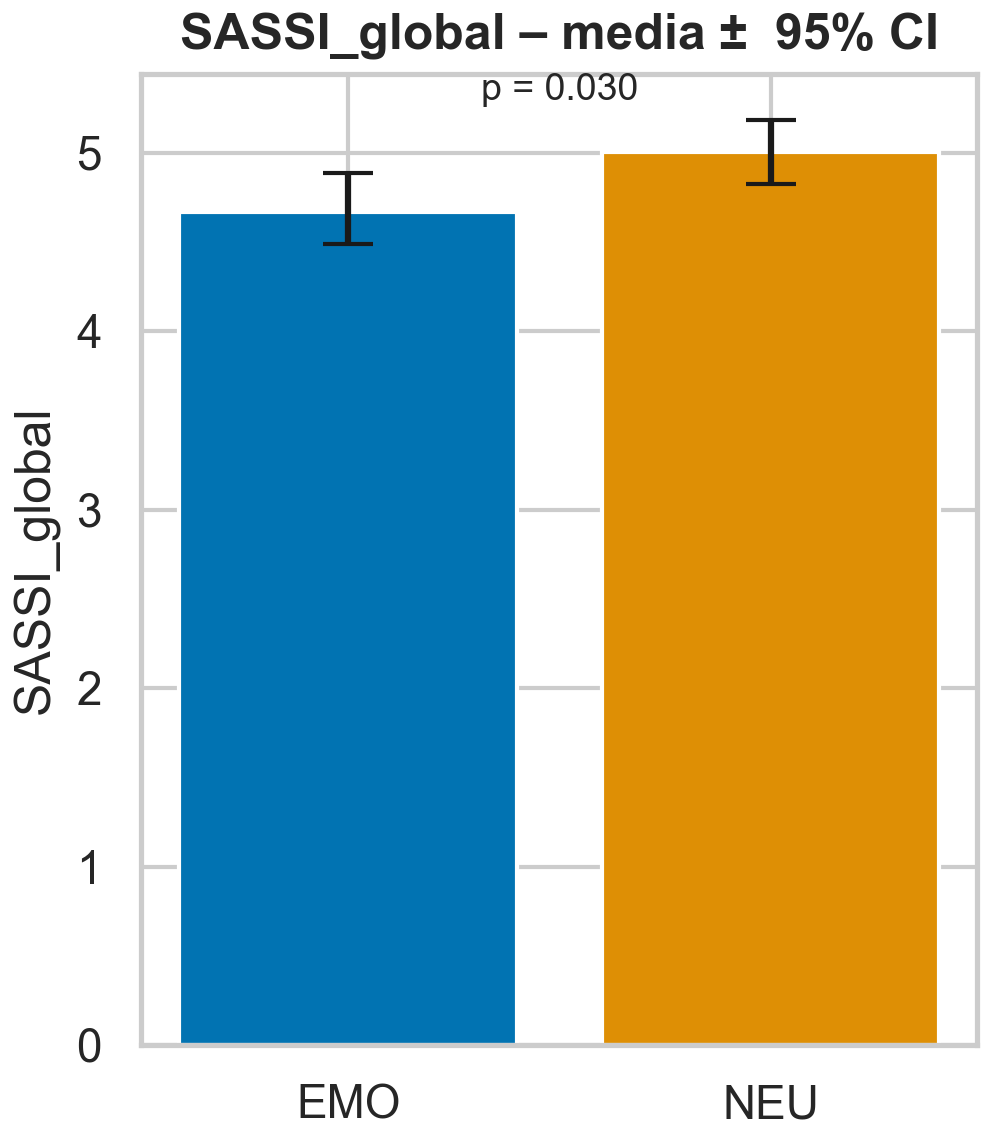
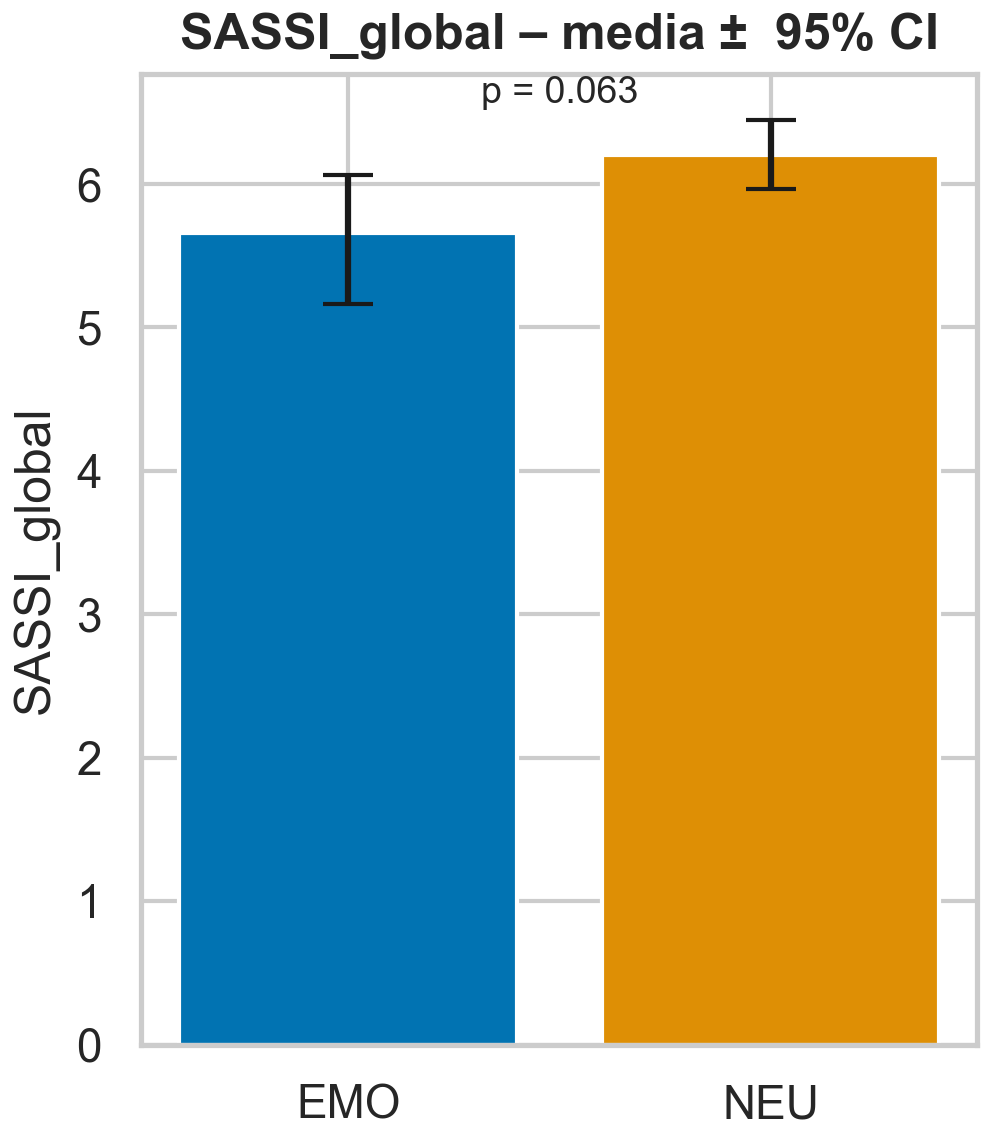
feat: update scoring metrics and variable names in analysis scripts

diff --git a/analysis/score_RQ.py b/analysis/score_RQ.py
@@ -4,7 +4,7 @@ Minimal confirmatory analysis for MR-assistant experiment
 (RQ1–RQ4, nessuna correzione multipla)
 
 RQ1 ▸ PQ
-RQ2 ▸ NASA_TLX  +  Total_Δ (SSQ)
+RQ2 ▸ NASA_TLX  +  SSQ_Total_Δ  (SSQ)
 RQ3 ▸ SUS       +  SASSI_global
 RQ4 ▸ TCT       +  Turns
 author: Matteo Ercolino – 2025-07-09
@@ -15,7 +15,7 @@ from datetime import datetime
 import numpy as np
 import pandas as pd
 from scipy import stats
-import matplotlib.pyplot as plt
+from typing import List
 
 # ------------------------------------------------------------
 # 1. Helper
@@ -34,6 +34,10 @@ def cliffs_delta(a, b):
     less = sum(x<y for x in a for y in b)
     return (more-less)/(len(a)*len(b))
 
+def reverse(series: pd.Series, max_val: int = 7):
+    """Reverse‑score Likert series: 1 ↔ max_val."""
+    return series.apply(lambda x: np.nan if pd.isna(x) else (max_val + 1 - x))
+
 warnings.filterwarnings("ignore", message="scipy.stats.shapiro: Input data has range zero*")
 
 # ------------------------------------------------------------
@@ -44,6 +48,24 @@ post = pd.read_csv("Questionario post-task.csv")
 
 idcol = "ID Partecipante (fornito dallo sperimentatore):"
 post["GROUP"] = pre["GROUP"] = pre[idcol].str[0].map({"E":"EMO","N":"NEU"})
+
+# ---------------------------------------------------------------------------
+# 2. Reverse‑scoring (SASSI short‑form)
+# ---------------------------------------------------------------------------
+NEG_SASSI: List[str] = [
+    "Ho dovuto pensare molto",             # CD1
+    "richiedeva molta concentrazione",     # CD2
+    "Mi sono sentito frustrato",           # A1
+    "è stata irritante",                   # A2
+    "Ho trovato difficile usare",          # A3
+]
+
+for kw in NEG_SASSI:
+    col = next((c for c in post.columns if kw.lower() in c.lower()), None)
+    if col:
+        post[col] = reverse(post[col], max_val=7)
+    else:
+        print(f"⚠ Item SASSI «{kw}…» non trovato: controlla spelling nel CSV.")
 
 # ------------------------------------------------------------
 # 3. Score PQ • NASA-TLX • SUS • SASSI_global
@@ -56,9 +78,17 @@ post["NASA_TLX"] = post.iloc[:,26:32].astype(float).mean(axis=1)
 
 # SUS (robusto)
 SUS_ITEMS = [
-    "Utilizzerei spesso", "inutile", "facile da usare", "supporto di un tecnico",
-    "incoerenze", "imparerebbe a usarlo", "macchinoso", "sentito sicuro", "imparare molte cose"
+    "Utilizzerei spesso",            # 1
+    "inutile",                       # 2 ← negativo
+    "facile da usare",              # 3
+    "supporto di un tecnico",       # 4 ← negativo
+    "incoerenze",                   # 6 ← negativo
+    "imparerebbe a usarlo",         # 7
+    "macchinoso",                   # 8 ← negativo
+    "sentito sicuro",               # 9
+    "imparare molte cose"           #10 ← negativo
 ]
+NEGATIVE_IDX = {1, 3, 4, 6, 8}  # ← indici Python 0-based (item 2,4,6,8,10)
 def sus(row):
     contrib = present = 0
     for i, kw in enumerate(SUS_ITEMS):
@@ -66,7 +96,7 @@ def sus(row):
         if col and not pd.isna(row[col]):
             present += 1
             val = row[col]
-            contrib += (val-1) if i%2==0 else (5-val)
+            contrib += (val - 1) if i not in NEGATIVE_IDX else (5 - val)
     return np.nan if present==0 else (contrib/(present*4))*100
 post["SUS"] = post.apply(sus, axis=1)
 
@@ -128,15 +158,34 @@ SSQ_ITEMS = [
     "Vertigini (occhi aperti).", "Vertigini (occhi chiusi).", "Senso di giramento di testa.",
     "Sensazione di stomaco “in movimento”.", "Sensazione di dover ruttare."
 ]
-weights = 3.74  # fattore per il totale
 
-def ssq_total(df):
-    # Coerce a numerico; valori non convertibili → NaN → trattati come 0 nel sum
-    return df[SSQ_ITEMS].apply(pd.to_numeric, errors="coerce").sum(axis=1) * weights
+# Indici (0-based)
+SCALES = {
+    "Nausea":      [0, 5, 6, 7, 8, 14, 15],
+    "Oculomotor":  [1, 2, 3, 4, 8, 9,10],
+    "Disorient.":  [0, 1, 2,11,12,13,14],
+    "SSQ_Total":    list(range(16))
+}
+WEIGHTS = {
+    "Nausea": 9.54, "Oculomotor": 7.58, "Disorient.": 13.92, "SSQ_Total": 3.74
+}
 
-ssq_pre_total  = ssq_total(pre)
-ssq_post_total = ssq_total(post)
-post["Total_Δ"] = ssq_post_total - ssq_pre_total
+def compute_ssq_scores(df):
+    df_items = df[SSQ_ITEMS].apply(pd.to_numeric, errors="coerce").fillna(0)
+
+    scores = {}
+    for scale, idxs in SCALES.items():
+        raw_sum = df_items.iloc[:, idxs].sum(axis=1)
+        scores[scale] = raw_sum * WEIGHTS[scale]
+    return pd.DataFrame(scores)
+
+# Calcolo
+ssq_pre  = compute_ssq_scores(pre)
+ssq_post = compute_ssq_scores(post)
+
+# Δ tra pre e post
+ssq_delta = ssq_post - ssq_pre
+post = post.join(ssq_delta.add_suffix("_Δ"))
 
 # ------------------------------------------------------------
 # 5. Objective metrics from logs
@@ -156,7 +205,7 @@ post = post.merge(perf, left_on=idcol, right_on="ID", how="left")
 # ------------------------------------------------------------
 # 6. Stats (NO multiple-comparison correction)
 # ------------------------------------------------------------
-VARLIST = ["PQ","NASA_TLX","Total_Δ","SUS","SASSI_global","TCT","Turns"]
+VARLIST = ["PQ","NASA_TLX","SSQ_Total_Δ","SUS","SASSI_global","TCT","Turns"]
 out=[]
 for var in VARLIST:
     a = post[post.GROUP=="EMO"][var].dropna().to_numpy()

diff --git a/analysis/plots_RQ.py b/analysis/plots_RQ.py
@@ -63,7 +63,7 @@ FIG_DIR.mkdir(exist_ok=True)
 VARLIST = [
     "PQ",
     "NASA_TLX",
-    "Total_Δ",
+    "SSQ_Total_Δ",
     "SUS",
     "SASSI_global",
     "TCT",
